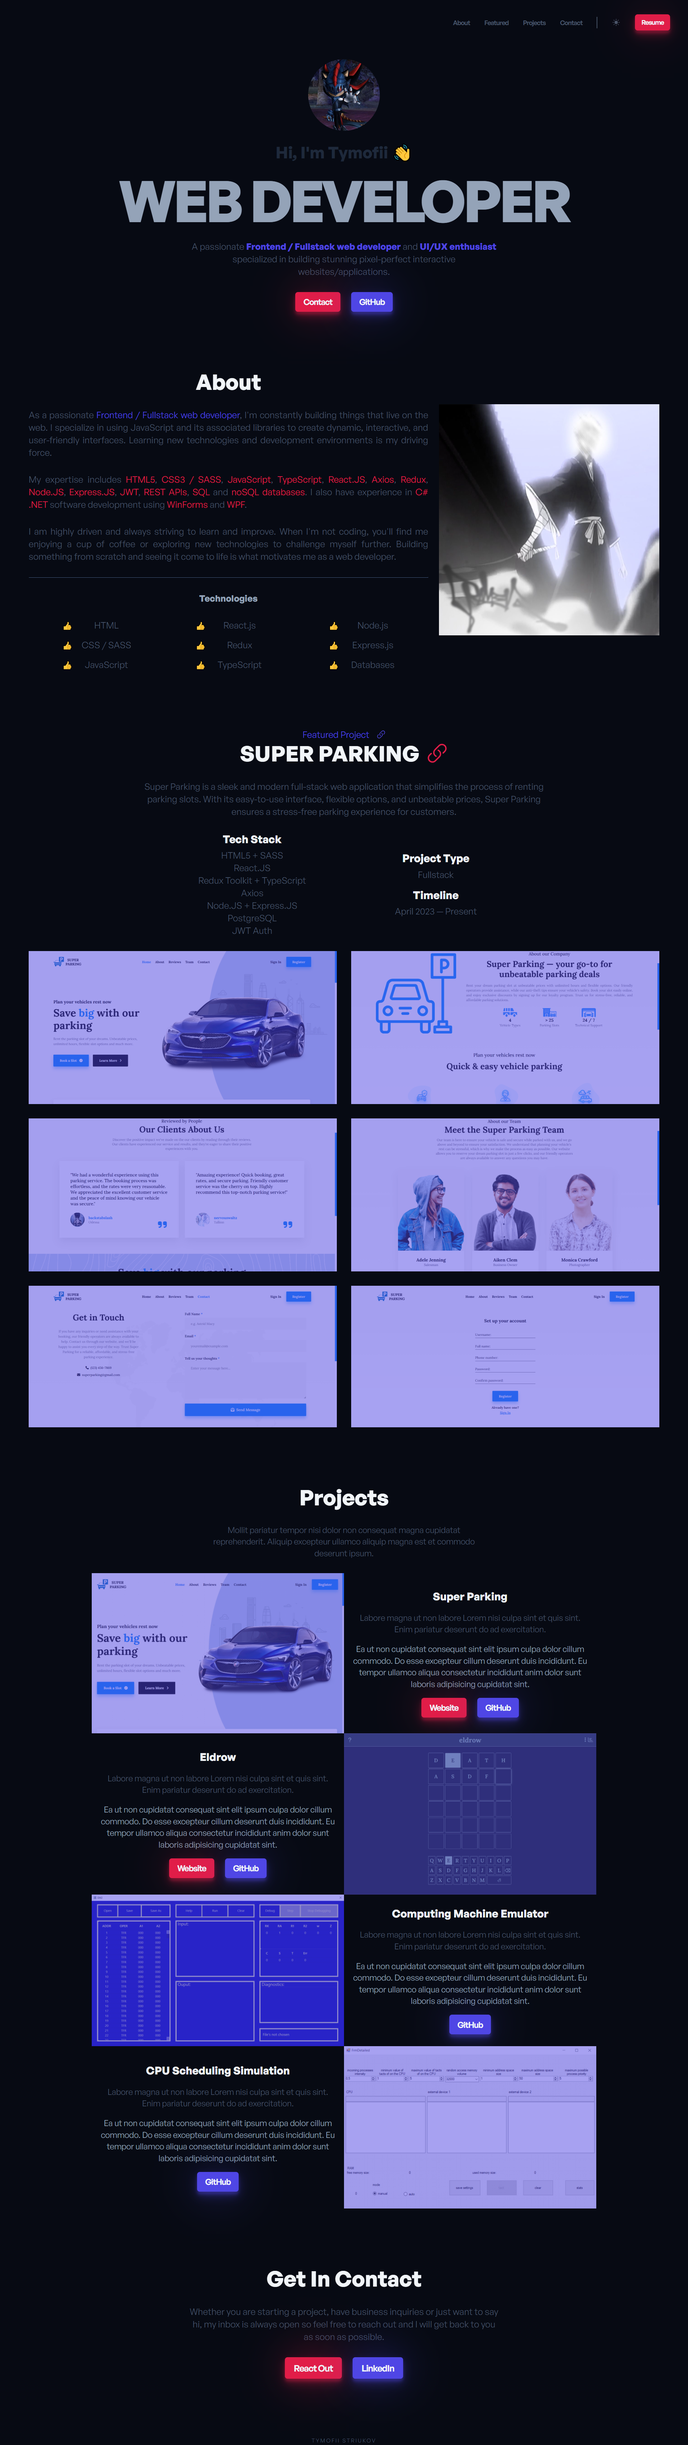
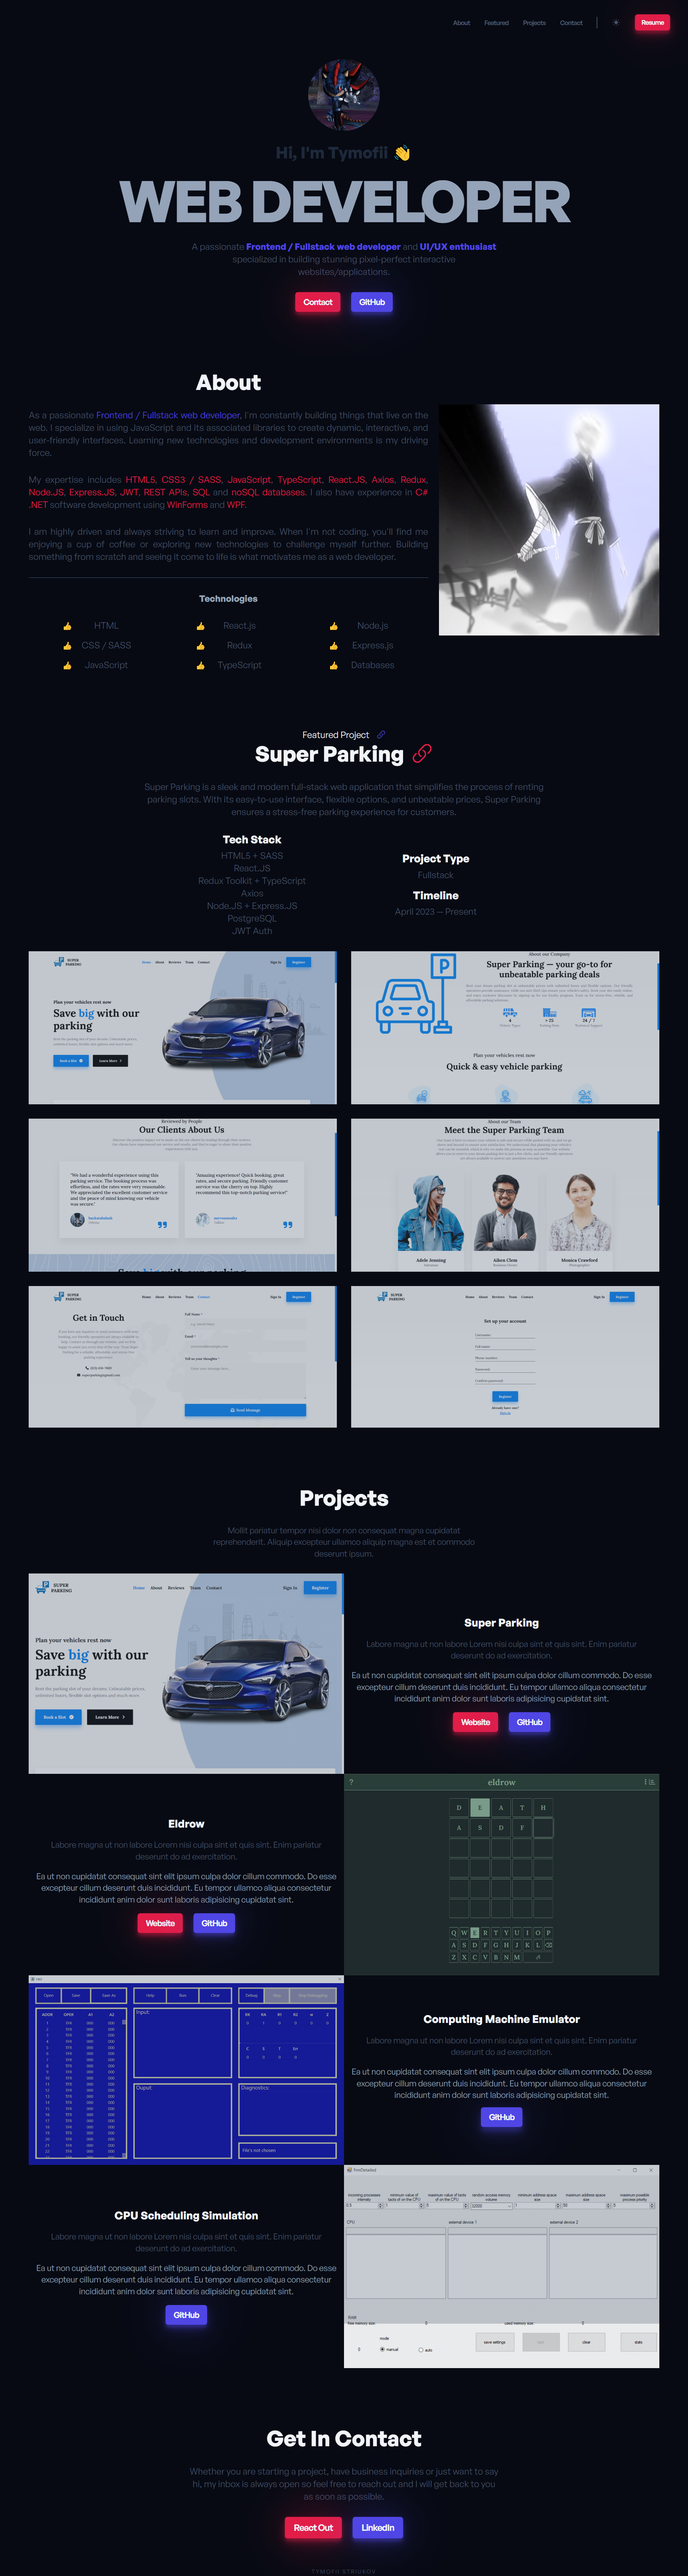
mobilenav + themetoggle feelsgoodman

diff --git a/index.html b/index.html
@@ -20,7 +20,7 @@
           <li><a class="header__link" href="#contact">Contact</a></li>
           <li class="header__line"></li>
           <li>
-            <button class="header__sun">
+            <button class="header__sun" id="theme-toggle">
               <svg
                 xmlns="http://www.w3.org/2000/svg"
                 viewBox="0 0 24 24"
@@ -49,6 +49,40 @@
         </button>
       </nav>
     </header>
+    <!-- Mobile Nav -->
+    <div class="mobile-nav">
+      <nav>
+        <ul class="mobile-nav__menu">
+          <li>
+            <a href="#about" class="mobile-nav__link">About</a>
+          </li>
+          <li>
+            <a href="#featured" class="mobile-nav__link">Featured</a>
+          </li>
+          <li>
+            <a href="#projects" class="mobile-nav__link">Projects</a>
+          </li>
+          <li>
+            <a href="#contact" class="mobile-nav__link">Contact</a>
+          </li>
+          <li class="mobile-nav__link-line"></li>
+          <li>
+            <button class="mobile-nav__sun" id="theme-toggle">
+              <svg
+                xmlns="http://www.w3.org/2000/svg"
+                viewBox="0 0 24 24"
+                fill="currentColor"
+              >
+                <path
+                  d="M12 2.25a.75.75 0 01.75.75v2.25a.75.75 0 01-1.5 0V3a.75.75 0 01.75-.75zM7.5 12a4.5 4.5 0 119 0 4.5 4.5 0 01-9 0zM18.894 6.166a.75.75 0 00-1.06-1.06l-1.591 1.59a.75.75 0 101.06 1.061l1.591-1.59zM21.75 12a.75.75 0 01-.75.75h-2.25a.75.75 0 010-1.5H21a.75.75 0 01.75.75zM17.834 18.894a.75.75 0 001.06-1.06l-1.59-1.591a.75.75 0 10-1.061 1.06l1.59 1.591zM12 18a.75.75 0 01.75.75V21a.75.75 0 01-1.5 0v-2.25A.75.75 0 0112 18zM7.758 17.303a.75.75 0 00-1.061-1.06l-1.591 1.59a.75.75 0 001.06 1.061l1.591-1.59zM6 12a.75.75 0 01-.75.75H3a.75.75 0 010-1.5h2.25A.75.75 0 016 12zM6.697 7.757a.75.75 0 001.06-1.06l-1.59-1.591a.75.75 0 00-1.061 1.06l1.59 1.591z"
+                />
+              </svg>
+            </button>
+          </li>
+          <li><a class="mobile-nav__btn btn" href="">Resume</a></li>
+        </ul>
+      </nav>
+    </div>
     <main>
       <section class="hero container">
         <img class="hero__img" src="/hero.jpg" alt="Profile Picture" />
@@ -346,7 +380,7 @@
         </div>
       </section>
     </main>
-    <footer class="footer container section">
+    <footer class="footer container">
       <h3 class="footer__title">Tymofii Striukov</h3>
     </footer>
     <script type="module" src="./src/main.js"></script>

diff --git a/styles/components/mobile-nav.css b/styles/components/mobile-nav.css
@@ -1,0 +1,52 @@
+.mobile-nav {
+  position: absolute;
+  top: 0;
+  left: 0;
+  z-index: 999;
+  width: 100%;
+  height: 100%;
+  background-color: var(--clr-dark);
+  display: none;
+  justify-content: center;
+  align-items: center;
+  text-align: center;
+}
+
+.mobile-nav__menu {
+  list-style: none;
+  padding: 0;
+  display: flex;
+  flex-direction: column;
+  justify-content: center;
+  align-items: center;
+  gap: 1rem;
+}
+
+.mobile-nav__link {
+  font-size: var(--size-s);
+  text-decoration: none;
+  font-weight: 600;
+  color: var(--clr-slate600);
+  letter-spacing: -0.05em;
+  transition: 0.3s;
+}
+
+.mobile-nav__link:hover {
+  color: var(--clr-rose);
+}
+
+.mobile-nav__link-line {
+  border: 1px solid var(--clr-slate600);
+  padding-right: 1.5em;
+}
+
+.mobile-nav__sun {
+  display: block;
+  width: var(--size-xl);
+  height: var(--size-xl);
+  color: var(--clr-slate600);
+}
+
+.mobile-nav__btn {
+  font-size: var(--size-s);
+}

diff --git a/src/utils/mobile-nav.js b/src/utils/mobile-nav.js
@@ -1,0 +1,28 @@
+const mobileNav = () => {
+  const headerBtn = document.querySelector(".header__bars");
+  const mobileNav = document.querySelector(".mobile-nav");
+  const mobileNavLinks = document.querySelectorAll(".mobile-nav__link");
+
+  let isMobileNavOpen = false;
+
+  headerBtn.addEventListener("click", () => {
+    isMobileNavOpen = !isMobileNavOpen;
+    if (isMobileNavOpen) {
+      mobileNav.style.display = "flex";
+      document.body.style.overflowY = "hidden";
+    } else {
+      mobileNav.style.display = "none";
+      document.body.style.overflowY = "auto";
+    }
+  });
+
+  mobileNavLinks.forEach((link) => {
+    link.addEventListener("click", () => {
+      isMobileNavOpen = false;
+      mobileNav.style.display = "none";
+      document.body.style.overflowY = "auto";
+    });
+  });
+};
+
+export default mobileNav;

diff --git a/styles/components/featured.css b/styles/components/featured.css
@@ -5,7 +5,7 @@
 .featured__title {
   font-size: var(--size-2xl);
   color: var(--clr-light);
-  text-transform: uppercase;
+  text-transform: capitalize;
 }
 
 .featured__wrapper {
@@ -17,7 +17,7 @@
 
 .featured__subtitle {
   font-size: var(--size-s);
-  color: var(--clr-indigo);
+  color: var(--clr-light);
   text-transform: capitalize;
   font-weight: 400;
 }
@@ -98,7 +98,7 @@
 
 .featured__img-wrapper::after {
   content: "";
-  background-color: rgba(79, 70, 229, 0.5);
+  background-color: rgba(71, 85, 105, 0.3);
   width: 100%;
   height: 100%;
   position: absolute;
@@ -109,7 +109,7 @@
 }
 
 .featured__img-wrapper:hover::after {
-  background-color: rgba(79, 70, 229, 0.1);
+  background-color: rgba(71, 85, 105, 0);
 }
 
 /* xs */

diff --git a/styles/components/projects.css b/styles/components/projects.css
@@ -25,7 +25,7 @@
 
 .projects__img-wrapper::after {
   content: "";
-  background-color: rgba(79, 70, 229, 0.5);
+  background-color: rgba(71, 85, 105, 0.3);
   width: 100%;
   height: 100%;
   position: absolute;
@@ -36,7 +36,7 @@
 }
 
 .projects__img-wrapper:hover::after {
-  background-color: rgba(79, 70, 229, 0.2);
+  background-color: rgba(71, 85, 105, 0);
 }
 
 .projects__project:not(:last-child) {
@@ -284,16 +284,8 @@
     display: block;
     font-size: var(--size-2xl);
   }
-
-  .projects__container {
-    width: 80%;
-    margin: 0 auto;
-  }
 }
 
 /* 2xl */
-@media (min-width: 1536px) {
-  .projects__container {
-    width: 80%;
-  }
-}
+/* @media (min-width: 1536px) {
+} */

diff --git a/src/utils/themeToggle.js b/src/utils/themeToggle.js
@@ -1,0 +1,24 @@
+const themeToggle = () => {
+  const themeToggleBtns = document.querySelectorAll("#theme-toggle");
+
+  const theme = localStorage.getItem("theme");
+
+  theme && document.body.classList.add(theme);
+
+  const handleThemeToggle = () => {
+    document.body.classList.toggle("light-mode");
+
+    if (document.body.classList.contains("light-mode")) {
+      localStorage.setItem("theme", "light-mode");
+    } else {
+      localStorage.removeItem("theme");
+      document.body.removeAttribute("class");
+    }
+  };
+
+  themeToggleBtns.forEach((btn) =>
+    btn.addEventListener("click", handleThemeToggle)
+  );
+};
+
+export default themeToggle;

diff --git a/src/main.js b/src/main.js
@@ -1,5 +1,7 @@
 import "../styles/modern-normalize.css";
 import "../styles/style.css";
+import "../styles/components/header.css";
+import "../styles/components/mobile-nav.css";
 import "../styles/components/hero.css";
 import "../styles/components/about.css";
 import "../styles/components/featured.css";
@@ -7,4 +9,9 @@ import "../styles/components/projects.css";
 import "../styles/components/contact.css";
 import "../styles/components/footer.css";
 import "../styles/utils.css";
-import "../styles/components/header.css";
+
+import mobileNav from "./utils/mobile-nav";
+import themeToggle from "./utils/themeToggle";
+
+mobileNav();
+themeToggle();

diff --git a/styles/style.css b/styles/style.css
@@ -29,6 +29,14 @@
   --size-10xl: 10rem;
 }
 
+.light-mode {
+  --clr-light: #070a13;
+  --clr-dark: #f1f5f9;
+  --clr-slate400: #475569;
+  --clr-slate600: #475569;
+  --clr-slate800: #1e293b;
+}
+
 * {
   margin: 0;
   line-height: calc(1em + 0.5rem);

diff --git a/styles/utils.css b/styles/utils.css
@@ -29,7 +29,7 @@
   letter-spacing: -0.05em;
   cursor: pointer;
   background-color: var(--clr-rose);
-  color: var(--clr-light);
+  color: #f1f5f9;
   padding: 0.5em 1em;
   border-radius: 6px;
   box-shadow: 0 10px 20px rgba(225, 29, 72, 0.3),

diff --git a/styles/components/header.css b/styles/components/header.css
@@ -2,7 +2,9 @@
   display: flex;
   justify-content: flex-end;
   align-items: center;
-  padding: 2rem 2.5rem;
+  padding: 2rem 2.5rem !important;
+  position: relative;
+  z-index: 9999;
 }
 
 .header__menu {

diff --git a/styles/components/footer.css b/styles/components/footer.css
@@ -6,4 +6,5 @@
   text-transform: uppercase;
   letter-spacing: 0.2em;
   user-select: none;
+  margin-top: 4rem;
 }
